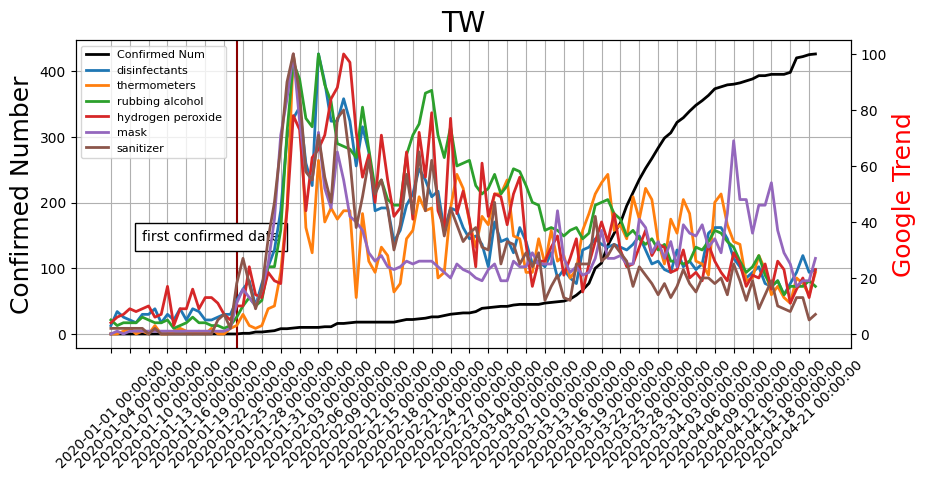
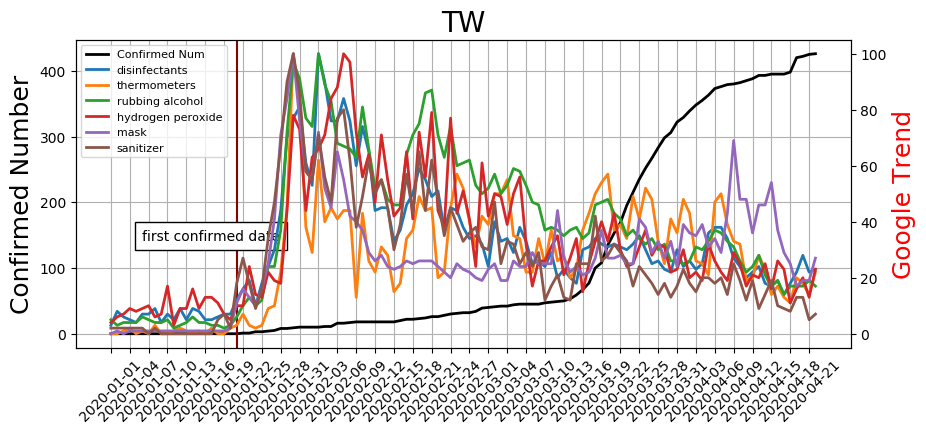
Add doctest

diff --git a/IS590PR_Final.py b/IS590PR_Final.py
@@ -472,7 +472,7 @@ def plot_items_with_confirmed_case(region_df: pd.DataFrame, item_name_list: list
     if region_df is None:
         raise ValueError("Data frame not exist")
 
-    x = region_df['date']
+    x = region_df['date'].dt.date
     fig, ax = plt.subplots(figsize=(10, 4))
     ax.plot(x, region_df['Confirmed'], lw=2, label='Confirmed Num', color='black')
     ax.axvline(x=first_confirmed_date, color='darkred')
